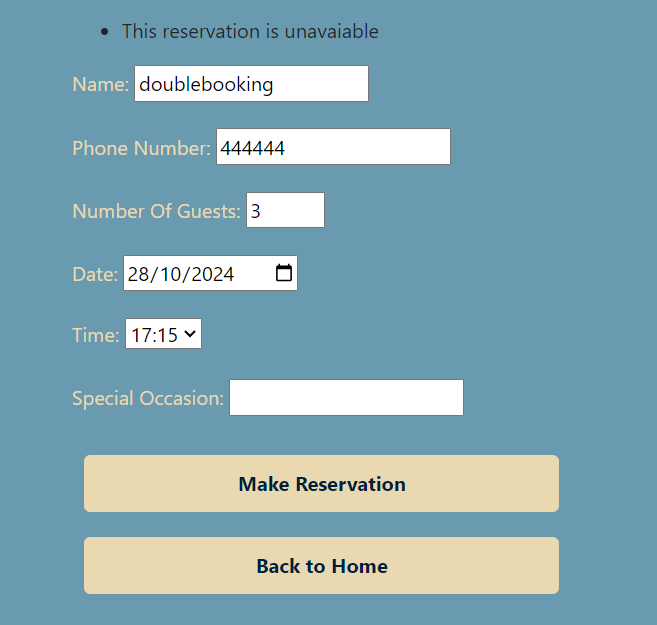
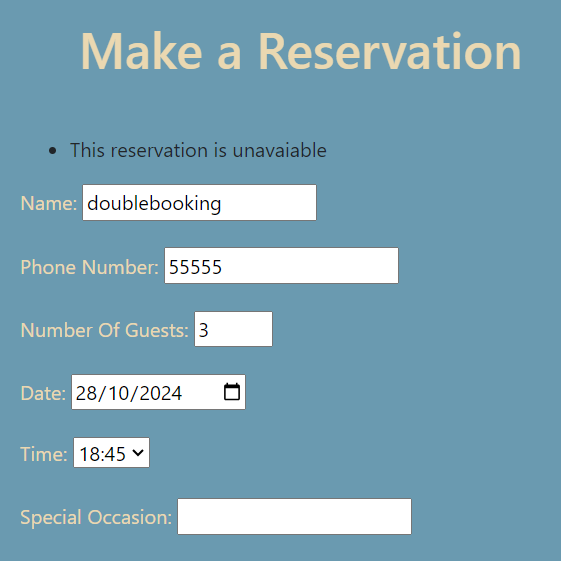
reservation/view.py make reservation time logic fixed so users can book 2 hours either side of reservation. TESTING>md updated

diff --git a/reservations/views.py b/reservations/views.py
@@ -24,7 +24,7 @@ def make_reservation(request):
                 ))
                 
             # the reservation ends after two hours
-            end_time = reservation_datetime + timedelta(hours = 2)
+            end_time = reservation_datetime + timedelta(hours=1, minutes=45)
 
             # checking if the new reservation overlaps with any reservations that already exist
             # If it exists then create overlapping_reservation variable
@@ -33,7 +33,7 @@ def make_reservation(request):
                 reservation_date = reservation_date,
                 # check there is no reservation 2 hours away
                 reservation_time__range=(
-                    reservation_datetime - timedelta(hours=2),  # 2 hours before
+                    reservation_datetime - timedelta(hours=1, minutes=45),  # 2 hours before
                     end_time  # 2 hours after
                 )
             )

diff --git a/TESTING.md b/TESTING.md
@@ -194,13 +194,24 @@ Multiple checks were made for making reservations
 Users can no longer book reservations that are two hours behind or ahead of an already existing reservation
 
 - booked reservation
+
 ![Double booking](docs/testing/8double_booking01.png)
 
-- Attempt to book after 
+- Attempt to book 1 hour 45 mins after 
+
 ![Double booking](docs/testing/8double_booking02.png)
 
-- attempt to book before
+- attempt to book 1 hour 45 minutes before
+
 ![Double booking](docs/testing/8double_booking03.png)
 
+- attempt to book 2 hours either side succesful
+
+![Double booking](docs/testing/8double_booking05.png)
+
 - attempt to book on another day but same time
+
 ![Double booking](docs/testing/8double_booking04.png)
+
+## Users can see availble times on the day that they book if table in unavailable at their chosen time
+
